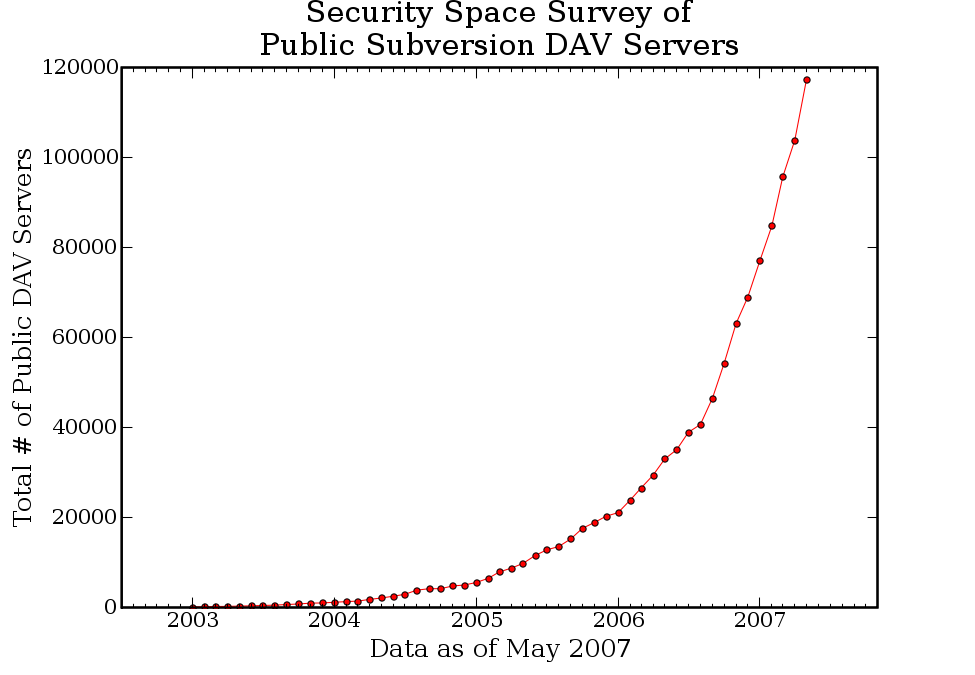
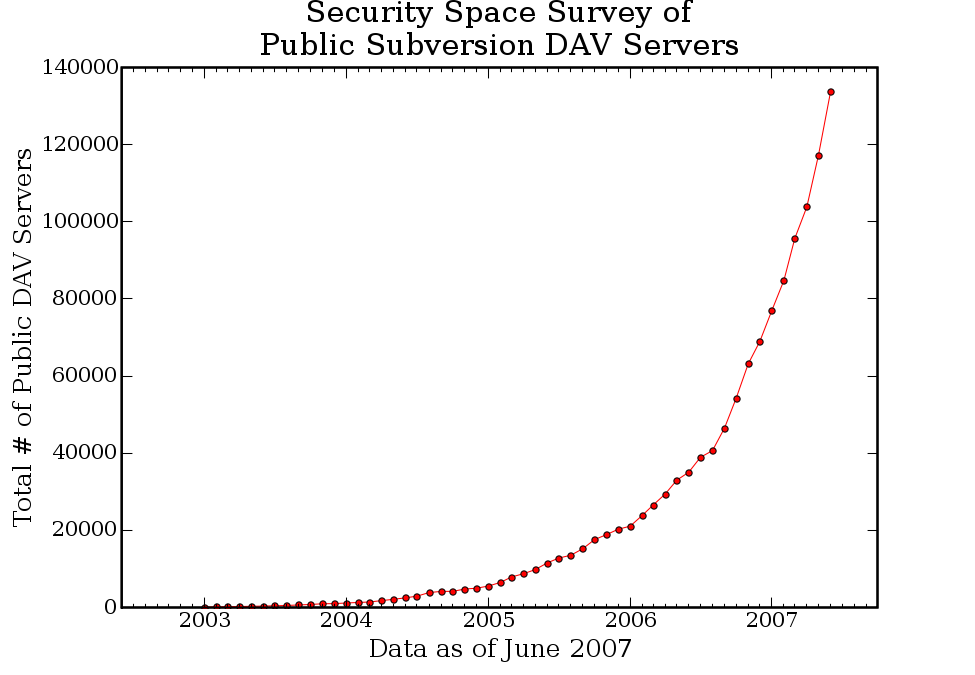
Update the Security Space survey for June.  Let's hear it for exponential growth!
* www/svn-dav-securityspace-survey.html,
  www/images/svn-dav-securityspace-survey.png,
  tools/dev/graph-dav-servers.py:
  Update image and table.

git-svn-id: https://svn.apache.org/repos/asf/subversion/trunk@865330 13f79535-47bb-0310-9956-ffa450edef68

diff --git a/www/svn-dav-securityspace-survey.html b/www/svn-dav-securityspace-survey.html
@@ -36,12 +36,13 @@ script. -->
 <img src="images/svn-dav-securityspace-survey.png" alt="" />
 
 <p>This information is taken from the <a
-href="http://www.securityspace.com/s_survey/data/man.200704/apachemods.html?mod=U1ZO"
+href="http://www.securityspace.com/s_survey/data/man.200705/apachemods.html?mod=U1ZO"
 >Security Space Apache Modules Survey</a>.  Thanks Security Space!</p>
 
 <table style="margin-left: auto; margin-right: auto;" border="0"
   cellpadding="5" cellspacing="0">
   <tr><th>Date</th><th># Servers</th></tr>
+  <tr><td>June 2007</td><td style="text-align: right">133,665</td></tr>
   <tr><td>May 2007</td><td style="text-align: right">117,267</td></tr>
   <tr><td>April 2007</td><td style="text-align: right">103,852</td></tr>
   <tr><td>March 2007</td><td style="text-align: right">95,679</td></tr>

diff --git a/tools/dev/graph-dav-servers.py b/tools/dev/graph-dav-servers.py
@@ -72,7 +72,8 @@ STATS = """1/1/2003       70
 2/1/2007               84813
 3/1/2007               95679
 4/1/2007              103852
-5/1/2007              117267"""
+5/1/2007              117267
+6/1/2007              133665"""
 
 
 def get_date(raw_date):
